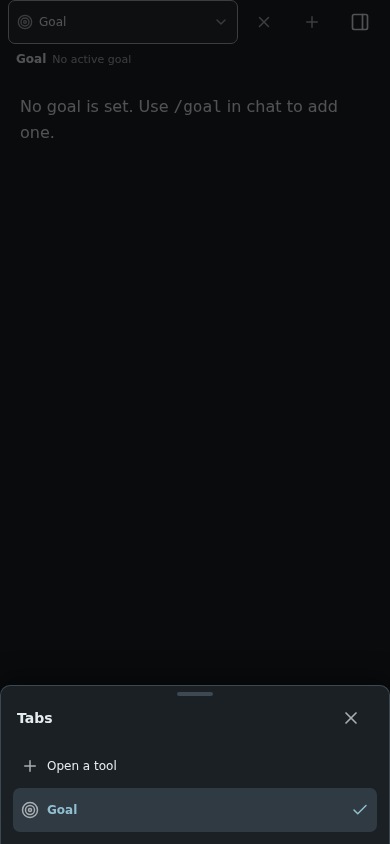
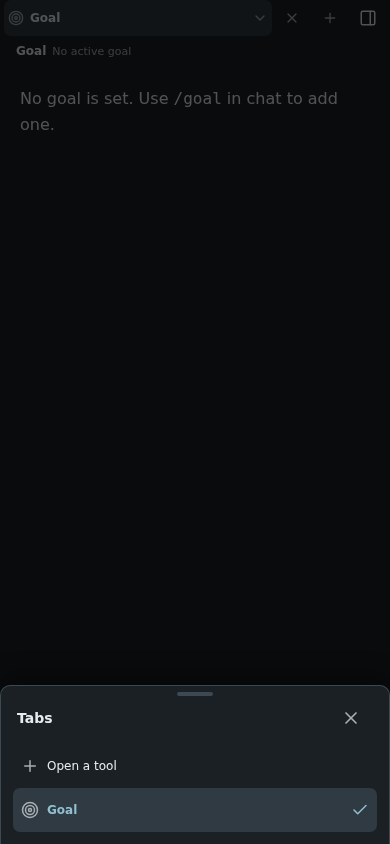
Make mobile utility tab bar compact

diff --git a/web/src/components/mux-sdk-utility.ts b/web/src/components/mux-sdk-utility.ts
@@ -305,9 +305,9 @@ export class MuxSDKUtility extends LitElement {
       <button class="mobile-tab-trigger" type="button" aria-label=${`Choose tab, current ${tab.id ? this.tabTitle(tab) : 'Open a tool'}`} aria-haspopup="dialog" aria-expanded=${String(this.tabSheetOpen)} @click=${() => { this.tabSheetOpen = true; this.paintAll(); }}>
         ${icon(tab.id ? TAB_GLYPHS[tab.kind] : Plus,{size:16})}<span>${tab.id ? this.tabTitle(tab) : 'Open a tool'}</span>${icon(ChevronDown,{size:16})}
       </button>
-      ${tab.id ? html`<mux-ui-button icon-only size="large" variant="quiet" tone="muted" accessible-label=${`Close ${this.tabTitle(tab)} tab`} tooltip="Close tab" @click=${() => this.closeTab(tab.id)}>${icon(X,{size:18})}</mux-ui-button>` : nothing}
-      <mux-ui-button icon-only size="large" variant="quiet" tone="muted" accessible-label="New tab" tooltip="New tab" @click=${() => this.openNewTabView()}>${icon(Plus,{size:18})}</mux-ui-button>
-      <mux-ui-button icon-only size="large" variant="quiet" accessible-label="Close utility pane" tooltip="Close utility pane" @click=${() => this.dispatchEvent(new CustomEvent('close',{bubbles:true,composed:true}))}>${icon(PanelRight,{size:20})}</mux-ui-button>
+      ${tab.id ? html`<button class="mobile-tab-action muted" type="button" aria-label=${`Close ${this.tabTitle(tab)} tab`} @click=${() => this.closeTab(tab.id)}>${icon(X,{size:16})}</button>` : nothing}
+      <button class="mobile-tab-action muted" type="button" aria-label="New tab" @click=${() => this.openNewTabView()}>${icon(Plus,{size:16})}</button>
+      <button class="mobile-tab-action" type="button" aria-label="Close utility pane" @click=${() => this.dispatchEvent(new CustomEvent('close',{bubbles:true,composed:true}))}>${icon(PanelRight,{size:18})}</button>
     </div>
     ${this.tabSheetOpen ? html`<mux-ui-dialog class="mobile-tab-sheet-dialog" open size="compact" presentation="adaptive" label="Choose a tab" @dismiss=${() => this.closeTabSheet()}>
       <div class="mobile-tab-sheet">
@@ -1307,11 +1307,12 @@ export class MuxSDKUtility extends LitElement {
     mux-sdk-utility .mobile-tab-picker { display:none; }
     @media(max-width:767.98px) {
       mux-sdk-utility mux-ui-tab-strip { display:none; }
-      mux-sdk-utility .mobile-tab-picker { box-sizing:border-box; display:flex; align-items:center; flex:none; gap:var(--ui-space-2); min-height:var(--ui-control-lg); padding:0 var(--ui-space-4); }
-      mux-sdk-utility .mobile-tab-picker mux-ui-button { flex:none; }
-      mux-sdk-utility .mobile-tab-trigger { box-sizing:border-box; display:flex; align-items:center; flex:1; gap:var(--ui-space-3); min-width:0; min-height:var(--ui-control-lg); padding:0 var(--ui-space-4); border:1px solid var(--ui-border); border-radius:var(--ui-radius-md); background:var(--ui-surface-raised); color:var(--ui-text); font:500 var(--ui-text-sm) var(--ui-font-sans); text-align:left; cursor:pointer; }
-      mux-sdk-utility .mobile-tab-trigger:hover, mux-sdk-utility .mobile-tab-trigger[aria-expanded='true'] { border-color:var(--ui-text-muted); }
-      mux-sdk-utility .mobile-tab-trigger:focus-visible, mux-sdk-utility .mobile-tab-sheet button:focus-visible { outline:2px solid var(--ui-focus); outline-offset:2px; }
+      mux-sdk-utility .mobile-tab-picker { box-sizing:border-box; display:flex; align-items:center; flex:none; gap:var(--ui-space-1); height:var(--ui-control-md); padding:0 var(--ui-space-2); }
+      mux-sdk-utility .mobile-tab-trigger { box-sizing:border-box; display:flex; align-items:center; flex:1; gap:var(--ui-space-3); min-width:0; height:100%; padding:0 var(--ui-space-2); border:0; border-radius:var(--ui-radius-md); background:transparent; color:var(--ui-text); font:600 var(--ui-text-sm) var(--ui-font-sans); text-align:left; cursor:pointer; }
+      mux-sdk-utility .mobile-tab-action { box-sizing:border-box; display:grid; place-items:center; flex:none; width:var(--ui-control-md); height:var(--ui-control-md); padding:0; border:0; border-radius:var(--ui-radius-md); background:transparent; color:var(--ui-text); cursor:pointer; }
+      mux-sdk-utility .mobile-tab-action.muted { color:var(--ui-text-muted); }
+      mux-sdk-utility .mobile-tab-trigger:hover, mux-sdk-utility .mobile-tab-trigger[aria-expanded='true'], mux-sdk-utility .mobile-tab-action:hover { background:var(--ui-surface-hover); }
+      mux-sdk-utility .mobile-tab-picker button:focus-visible, mux-sdk-utility .mobile-tab-sheet button:focus-visible { outline:2px solid var(--ui-focus); outline-offset:-2px; }
       mux-sdk-utility .mobile-tab-trigger > svg { flex:none; color:var(--ui-text-muted); }
       mux-sdk-utility .mobile-tab-trigger > span { flex:1; min-width:0; overflow:hidden; text-overflow:ellipsis; white-space:nowrap; }
       mux-sdk-utility .mobile-tab-sheet { box-sizing:border-box; display:flex; flex-direction:column; max-height:min(78dvh,var(--ui-dialog-height)); padding:0 var(--ui-space-5) calc(var(--ui-space-5) + env(safe-area-inset-bottom)); }
